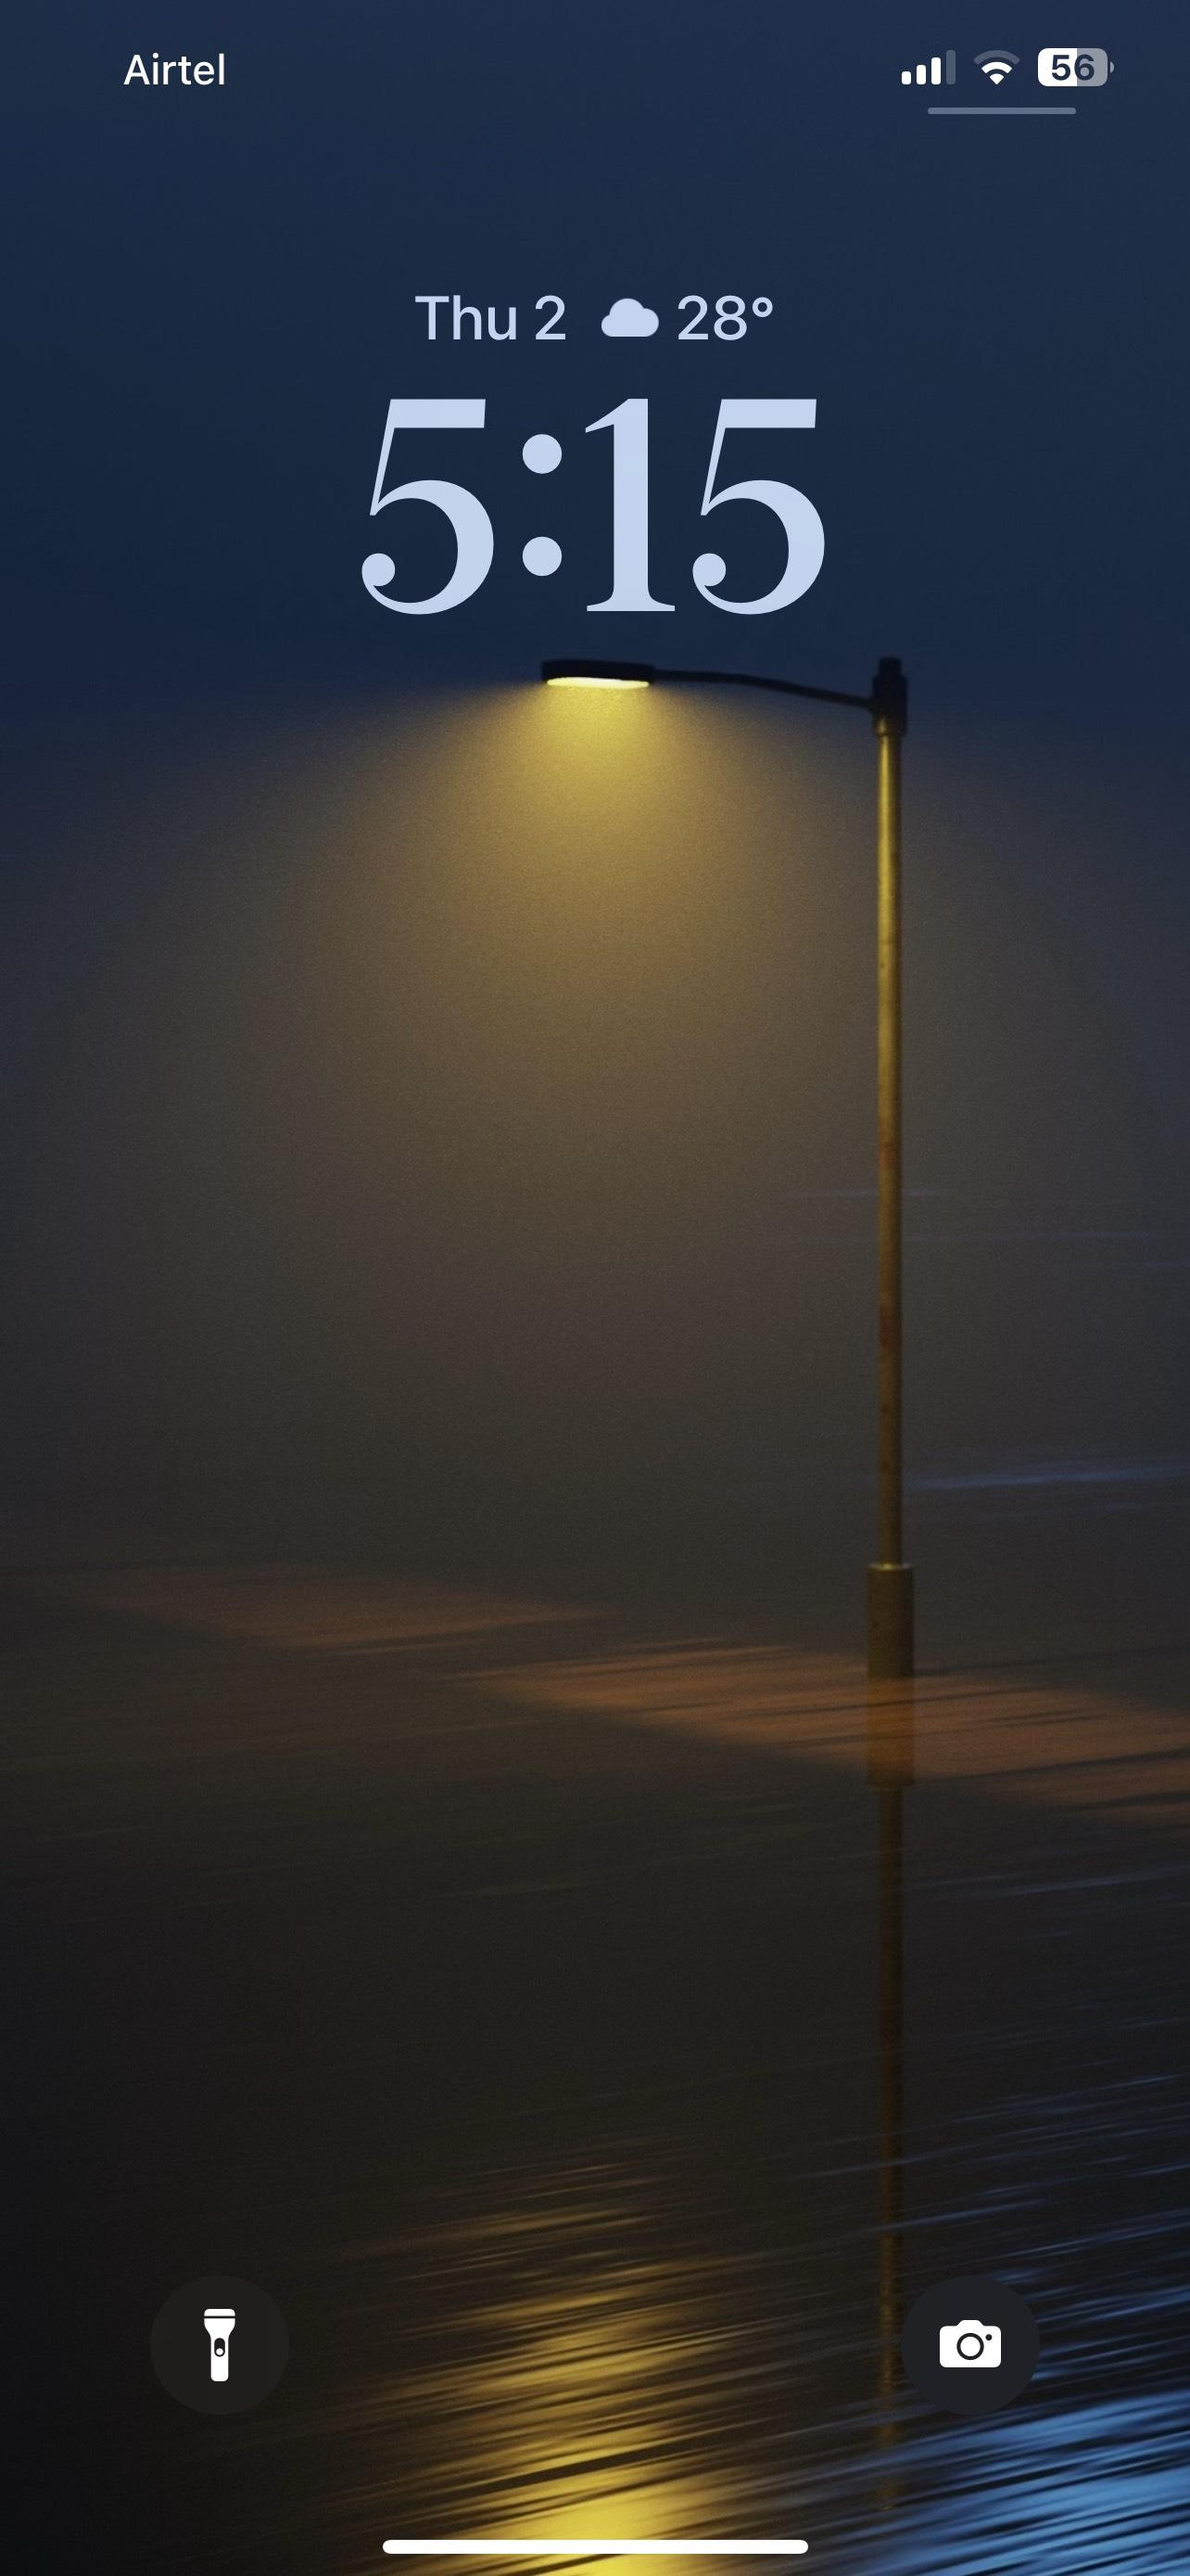
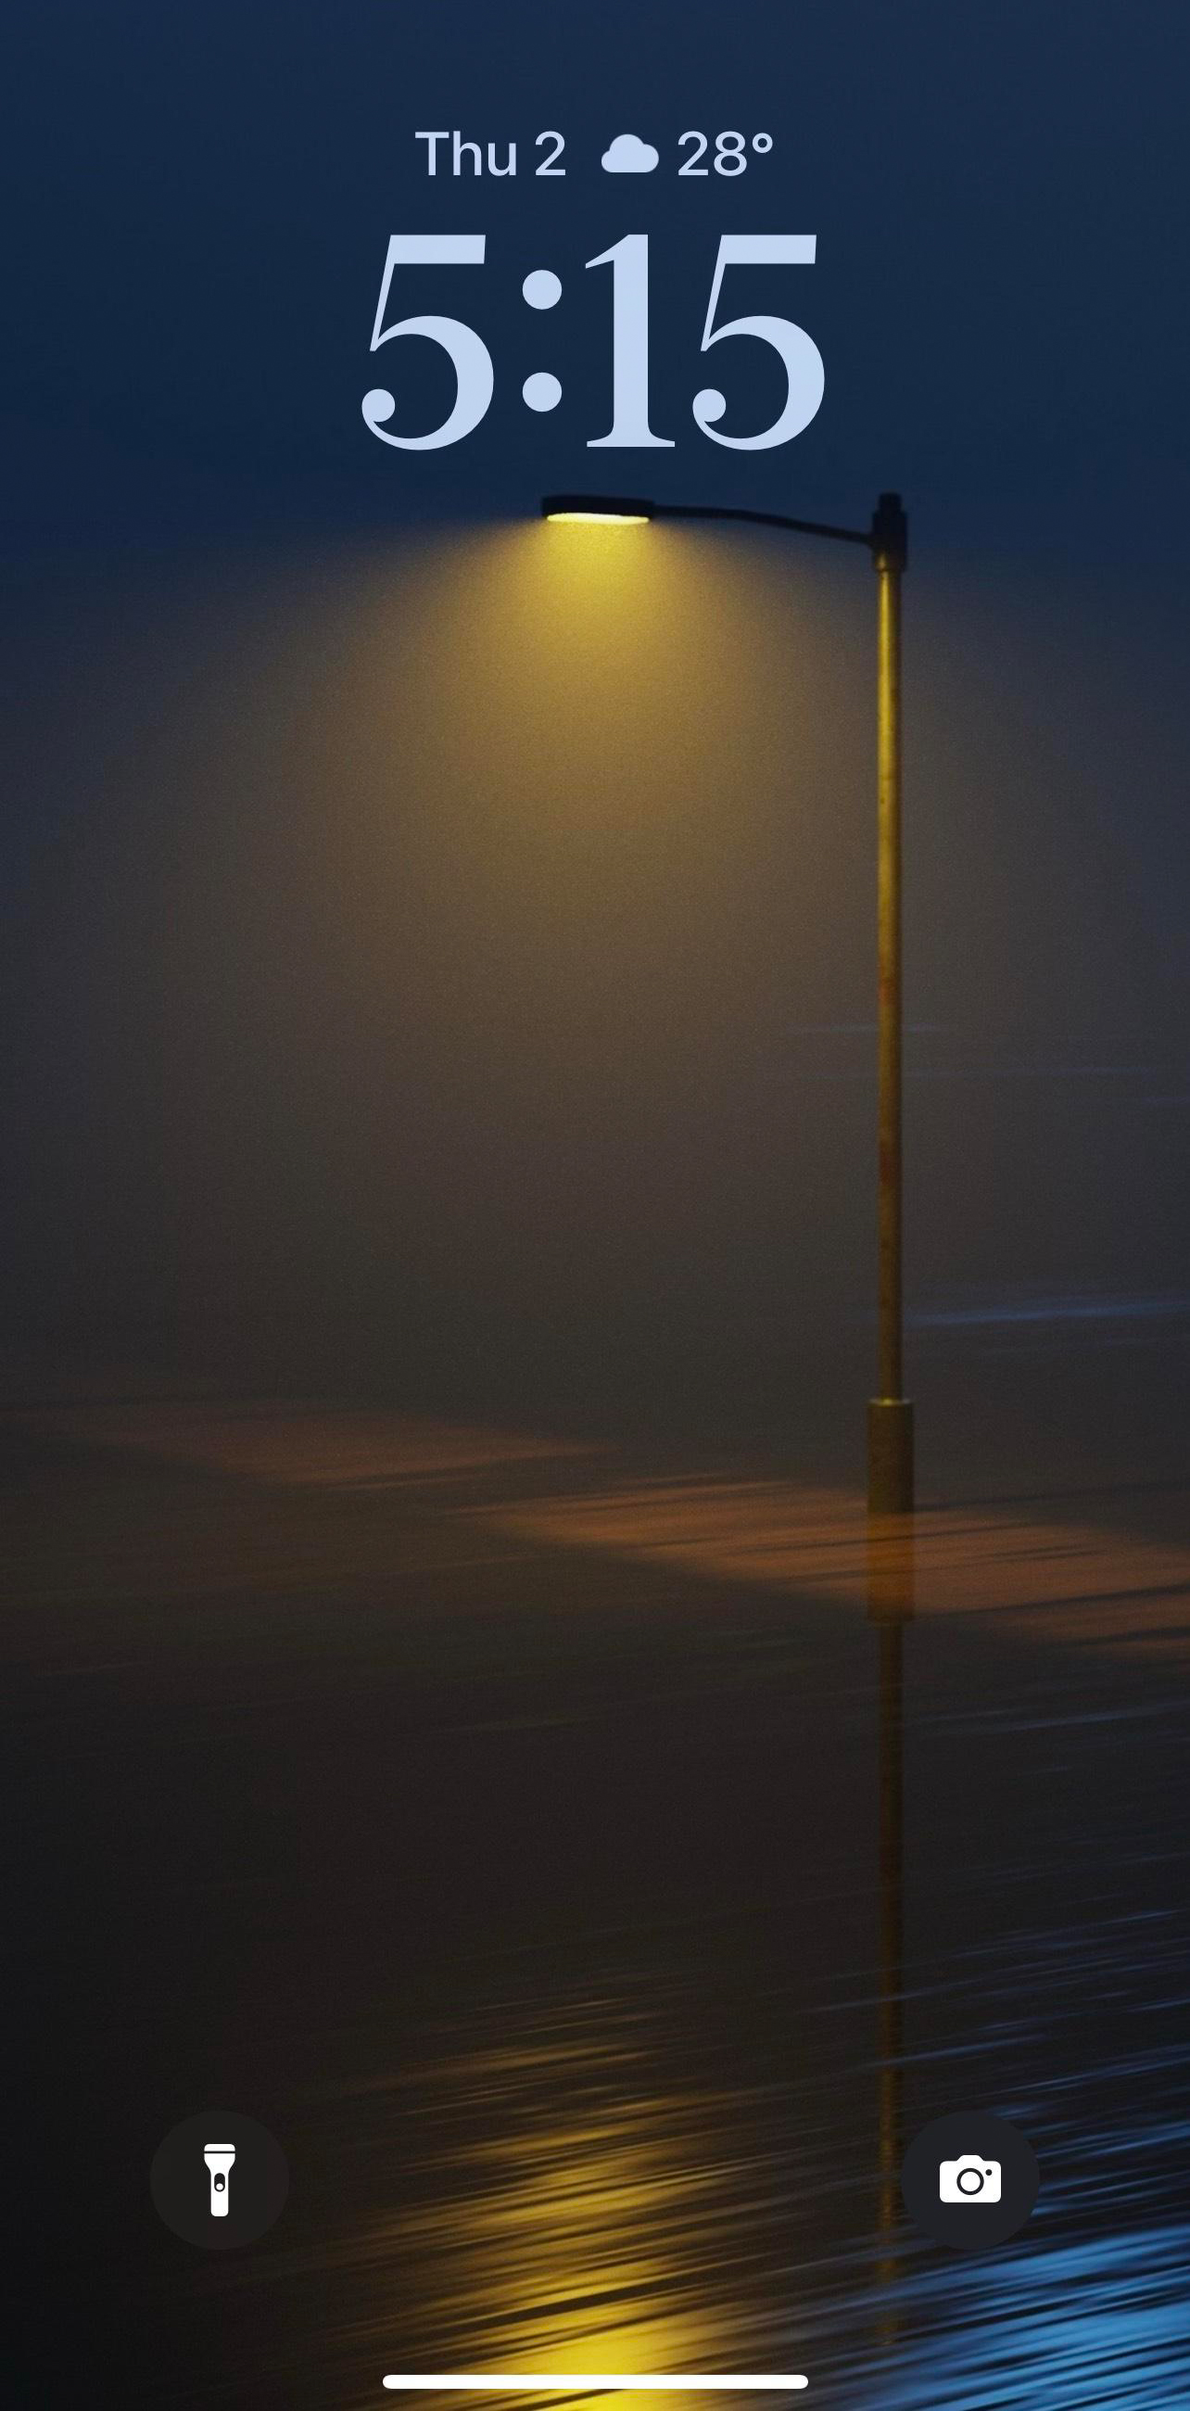
Updated sizing and positioning

diff --git a/src/pages/UnlockingPage.css b/src/pages/UnlockingPage.css
@@ -1,6 +1,6 @@
 
 ion-content {
-	--background: #fff url("../assets/backgroundWallpaper.jpg") no-repeat center/100% 100%;
+	--background: #fff url("../assets/backgroundWallpaper.jpg") center bottom / cover no-repeat;
 }
 
 ion-card {
